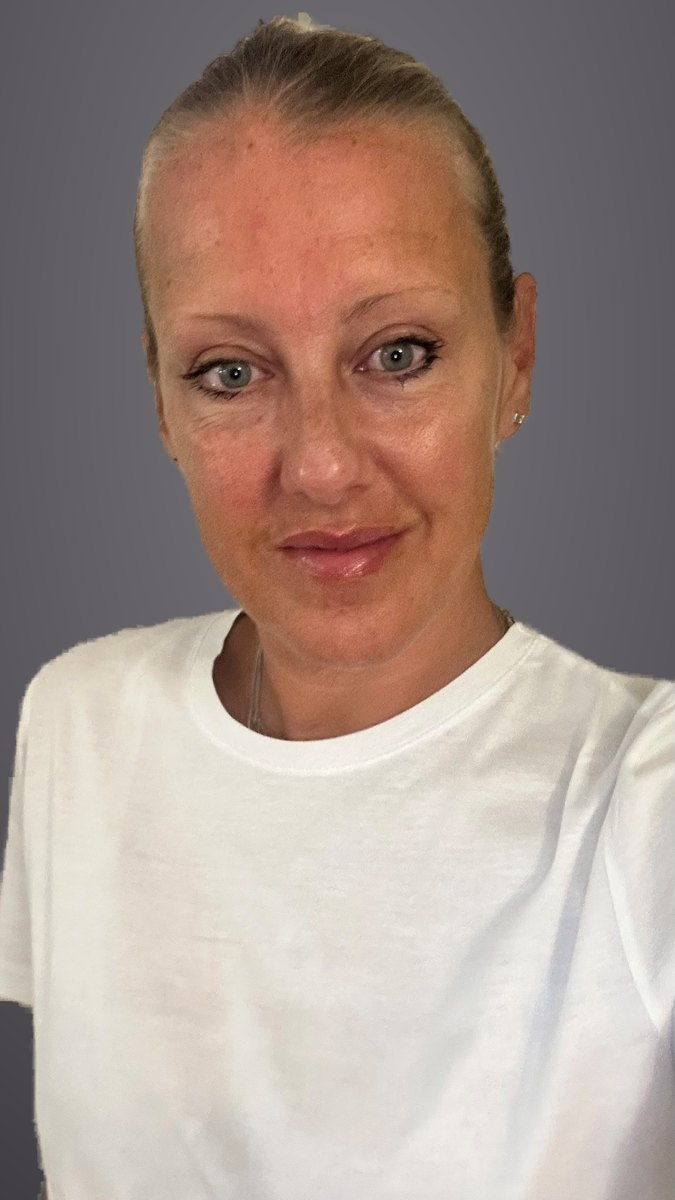
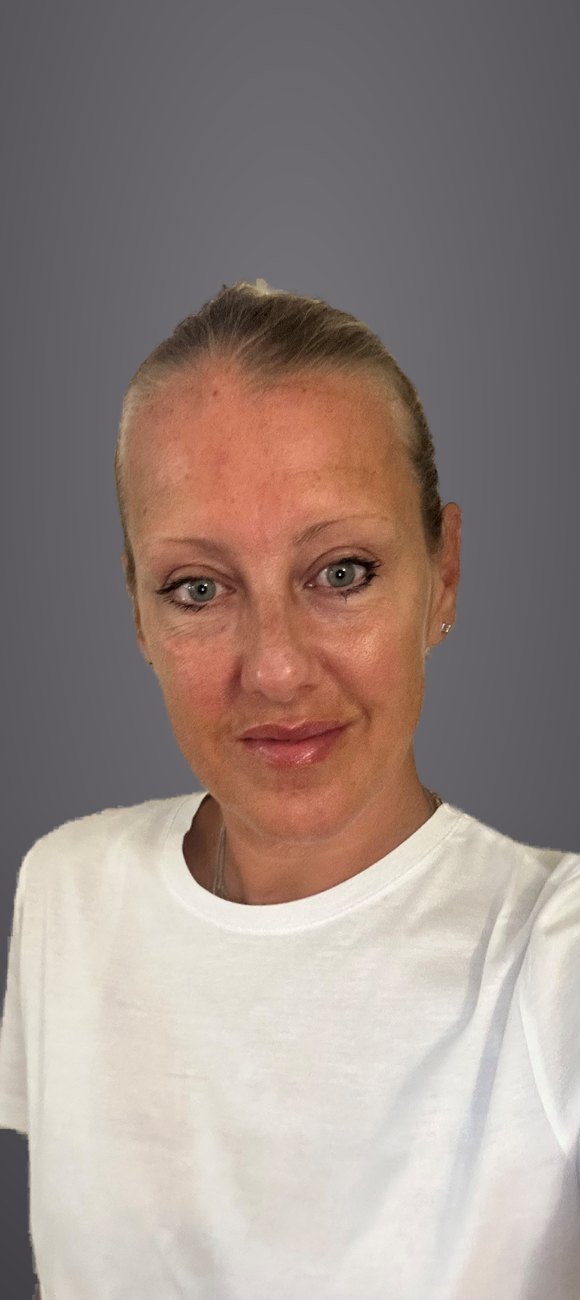
Swap in real studio headshots, rename Numbers→Projects, Title Case headings
Photos:
- Real professional headshots for Mara, Andrea, Giovanni, Alessio, Roberta
  (client sent studio shots); composited onto the shared gray backdrop and
  removed the AI sparkle watermark on each.
- Cristina: re-composited with added headroom so her whole head is visible,
  crop focus tuned to center 30%.

Copy:
- Rename the "Numbers" nav/footer tab to "Projects" (IT "Progetti") across
  all pages + the generator; reframe the page hero to "The projects we run,
  in numbers" so the tab and page agree.
- Title Case the English section headings: Our Numbers, Meet the Team,
  What Clients Say About Us.

Claude-Session: https://claude.ai/code/session_01JxEtyj2fxvFpVKVP54jJEr

diff --git a/index.html b/index.html
@@ -400,7 +400,7 @@
     <ul class="nav__links">
       <li><a href="/chi-siamo.html" data-it="Chi Siamo" data-en="About">Chi Siamo</a></li>
       <li><a href="/servizi.html" data-it="Servizi" data-en="Services">Servizi</a></li>
-      <li><a href="/numeri.html" data-it="I Numeri" data-en="Numbers">I Numeri</a></li>
+      <li><a href="/numeri.html" data-it="Progetti" data-en="Projects">Progetti</a></li>
       <li><a href="#team" data-it="Team" data-en="Team">Team</a></li>
       <li><a href="/casi-testimonianze.html" data-it="Casi &amp; Testimonianze" data-en="Cases">Casi &amp; Testimonianze</a></li>
       <li><a href="/lavora-con-noi.html" data-it="Lavora con noi" data-en="Careers">Lavora con noi</a></li>
@@ -524,7 +524,7 @@
 <section class="section">
   <div class="container">
     <div class="section__head reveal">
-      <h2 data-it-html="I nostri <em class=&quot;hl&quot;>numeri</em>" data-en-html="Our <em class=&quot;hl&quot;>numbers</em>">I nostri <em class="hl">numeri</em></h2>
+      <h2 data-it-html="I nostri <em class=&quot;hl&quot;>numeri</em>" data-en-html="Our <em class=&quot;hl&quot;>Numbers</em>">I nostri <em class="hl">numeri</em></h2>
       <p data-it="Formazione finanziata dai fondi interprofessionali, erogata alle imprese nel biennio 2024&ndash;2025." data-en="Training funded by interprofessional funds, delivered to companies over 2024&ndash;2025.">Formazione finanziata dai fondi interprofessionali, erogata alle imprese nel biennio 2024–2025.</p>
     </div>
     <div class="stats reveal">
@@ -609,11 +609,11 @@
 <section class="section" id="team">
   <div class="container">
     <div class="section__head reveal">
-      <h2 data-it-html="Conosci il <em class=&quot;hl&quot;>team</em>" data-en-html="Meet the <em class=&quot;hl&quot;>team</em>">Conosci il <em class="hl">team</em></h2>
+      <h2 data-it-html="Conosci il <em class=&quot;hl&quot;>team</em>" data-en-html="Meet the <em class=&quot;hl&quot;>Team</em>">Conosci il <em class="hl">team</em></h2>
     </div>
     <div class="team-grid reveal">
       <a href="/team/cesare-trebeschi.html" class="team-card team-card--lead"><div class="team-card__photo"><img src="/img/cesare-trebeschi.jpg" alt="Cesare Trebeschi"></div><div class="team-card__name">Cesare Trebeschi</div><div class="team-card__role" data-it="CEO &amp; Fondatore" data-en="CEO &amp; Founder">CEO &amp; Fondatore</div></a>
-      <a href="/team/cristina.html" class="team-card"><div class="team-card__photo"><img src="/img/team/cristina.jpg" alt="Cristina Milanesi" style="object-position:center 20%"></div><div class="team-card__name">Cristina Milanesi</div><div class="team-card__role" data-it="Front &amp; Back Office" data-en="Front &amp; Back Office">Front &amp; Back Office</div></a>
+      <a href="/team/cristina.html" class="team-card"><div class="team-card__photo"><img src="/img/team/cristina.jpg" alt="Cristina Milanesi" style="object-position:center 30%"></div><div class="team-card__name">Cristina Milanesi</div><div class="team-card__role" data-it="Front &amp; Back Office" data-en="Front &amp; Back Office">Front &amp; Back Office</div></a>
       <a href="/team/alessio.html" class="team-card"><div class="team-card__photo"><img src="/img/team/alessio.jpg" alt="Alessio Di Cesare" style="object-position:center 32%"></div><div class="team-card__name">Alessio Di Cesare</div><div class="team-card__role" data-it="Responsabile Amministrativo" data-en="Head of Administration">Responsabile Amministrativo</div></a>
       <a href="/team/gianmaria.html" class="team-card"><div class="team-card__photo">G</div><div class="team-card__name">Gianmaria Bassani</div><div class="team-card__role" data-it="Amministrazione" data-en="Administration">Amministrazione</div></a>
       <a href="/team/mara.html" class="team-card"><div class="team-card__photo"><img src="/img/team/mara.jpg" alt="Mara Carioni" style="object-position:center 22%"></div><div class="team-card__name">Mara Carioni</div><div class="team-card__role" data-it="Responsabile Formazione" data-en="Head of Training">Responsabile Formazione</div></a>
@@ -632,7 +632,7 @@
   <div class="container">
     <hr style="border:0;border-top:1px solid rgba(127,168,220,.22);max-width:1100px;margin:0 auto 80px">
     <div class="section__head reveal">
-      <h2 data-it-html="Cosa dicono i <em class=&quot;hl&quot;>clienti di noi</em>" data-en-html="What <em class=&quot;hl&quot;>clients say about us</em>">Cosa dicono i <em class="hl">clienti di noi</em></h2>
+      <h2 data-it-html="Cosa dicono i <em class=&quot;hl&quot;>clienti di noi</em>" data-en-html="What <em class=&quot;hl&quot;>Clients Say About Us</em>">Cosa dicono i <em class="hl">clienti di noi</em></h2>
     </div>
     <div class="quote-grid reveal">
       <article class="qcard">
@@ -680,7 +680,7 @@
       <ul>
         <li><a href="/chi-siamo.html" data-it="Chi Siamo" data-en="About">Chi Siamo</a></li>
         <li><a href="/servizi.html" data-it="Servizi" data-en="Services">Servizi</a></li>
-        <li><a href="/numeri.html" data-it="I Numeri" data-en="Numbers">I Numeri</a></li>
+        <li><a href="/numeri.html" data-it="Progetti" data-en="Projects">Progetti</a></li>
         <li><a href="/casi-testimonianze.html" data-it="Casi &amp; Testimonianze" data-en="Cases">Casi</a></li>
         <li><a href="/lavora-con-noi.html" data-it="Lavora con noi" data-en="Careers">Lavora con noi</a></li>
       </ul>

diff --git a/numeri.html b/numeri.html
@@ -3,8 +3,8 @@
 <head>
 <meta charset="UTF-8">
 <meta name="viewport" content="width=device-width, initial-scale=1.0">
-<title>I Numeri | Polaris Group</title>
-<meta name="description" content="I numeri della formazione Polaris HR: partecipanti formati, aziende coinvolte, ore e corsi erogati nel biennio 2024–2025, con i fondi interprofessionali.">
+<title>Progetti | Polaris Group</title>
+<meta name="description" content="I progetti formativi seguiti da Polaris HR: partecipanti formati, aziende coinvolte, ore e corsi erogati nel biennio 2024–2025, con i fondi interprofessionali.">
 <link rel="icon" type="image/png" sizes="32x32" href="/favicon-32.png">
 <link rel="icon" type="image/png" sizes="192x192" href="/favicon-192.png">
 <link rel="apple-touch-icon" href="/favicon-180.png">
@@ -78,7 +78,7 @@
     <ul class="nav__links">
       <li><a href="/chi-siamo.html" data-it="Chi Siamo" data-en="About">Chi Siamo</a></li>
       <li><a href="/servizi.html" data-it="Servizi" data-en="Services">Servizi</a></li>
-      <li><a href="/numeri.html" class="is-active" data-it="I Numeri" data-en="Numbers">I Numeri</a></li>
+      <li><a href="/numeri.html" class="is-active" data-it="Progetti" data-en="Projects">Progetti</a></li>
       <li><a href="/casi-testimonianze.html" data-it="Casi &amp; Testimonianze" data-en="Cases">Casi &amp; Testimonianze</a></li>
       <li><a href="/lavora-con-noi.html" data-it="Lavora con noi" data-en="Careers">Lavora con noi</a></li>
       <li><a href="/contatti.html" class="nav__cta" data-it="Contattaci" data-en="Get in Touch">Contattaci</a></li>
@@ -93,7 +93,7 @@
   <section class="num-hero">
     <div class="num-hero__inner">
       <span class="eyebrow eyebrow--center" data-it="Formazione" data-en="Training">Formazione</span>
-      <h1 data-it-html="La formazione che eroghiamo, in <span class='hl'>cifre</span>." data-en-html="The training we deliver, in <span class='hl'>numbers</span>.">La formazione che eroghiamo, in <span class="hl">cifre</span>.</h1>
+      <h1 data-it-html="I progetti che seguiamo, in <span class='hl'>cifre</span>." data-en-html="The projects we run, in <span class='hl'>numbers</span>.">I progetti che seguiamo, in <span class="hl">cifre</span>.</h1>
       <p class="num-hero__lead" data-it="Ogni anno progettiamo, gestiamo e rendicontiamo piani formativi finanziati per le imprese. Questi sono i risultati del biennio 2024–2025." data-en="Every year we design, manage and report funded training plans for companies. These are the results of 2024–2025.">Ogni anno progettiamo, gestiamo e rendicontiamo piani formativi finanziati per le imprese. Questi sono i risultati del biennio 2024–2025.</p>
     </div>
   </section>
@@ -183,7 +183,7 @@
       <ul>
         <li><a href="/chi-siamo.html" data-it="Chi Siamo" data-en="About">Chi Siamo</a></li>
         <li><a href="/servizi.html" data-it="Servizi" data-en="Services">Servizi</a></li>
-        <li><a href="/numeri.html" data-it="I Numeri" data-en="Numbers">I Numeri</a></li>
+        <li><a href="/numeri.html" data-it="Progetti" data-en="Projects">Progetti</a></li>
         <li><a href="/casi-testimonianze.html" data-it="Casi &amp; Testimonianze" data-en="Cases">Casi</a></li>
         <li><a href="/lavora-con-noi.html" data-it="Lavora con noi" data-en="Careers">Lavora con noi</a></li>
       </ul>

diff --git a/chi-siamo.html b/chi-siamo.html
@@ -87,7 +87,7 @@
     <ul class="nav__links">
       <li><a href="/chi-siamo.html" class="is-active" data-it="Chi Siamo" data-en="About">Chi Siamo</a></li>
       <li><a href="/servizi.html" data-it="Servizi" data-en="Services">Servizi</a></li>
-      <li><a href="/numeri.html" data-it="I Numeri" data-en="Numbers">I Numeri</a></li>
+      <li><a href="/numeri.html" data-it="Progetti" data-en="Projects">Progetti</a></li>
       <li><a href="/chi-siamo.html#team" data-it="Team" data-en="Team">Team</a></li>
       <li><a href="/casi-testimonianze.html" data-it="Casi &amp; Testimonianze" data-en="Cases">Casi &amp; Testimonianze</a></li>
       <li><a href="/lavora-con-noi.html" data-it="Lavora con noi" data-en="Careers">Lavora con noi</a></li>
@@ -200,7 +200,7 @@
             <span class="team-group__eyebrow" data-it="Area Segreteria" data-en="Administration">Area Segreteria</span>
           </div>
           <div class="team-grid">
-            <a href="/team/cristina.html" class="team-card"><div class="team-card__photo"><img src="/img/team/cristina.jpg" alt="Cristina Milanesi" style="object-position:center 20%"></div><div class="team-card__name">Cristina Milanesi</div><div class="team-card__role" data-it="Front & Back Office" data-en="Front & Back Office">Front &amp; Back Office</div></a>
+            <a href="/team/cristina.html" class="team-card"><div class="team-card__photo"><img src="/img/team/cristina.jpg" alt="Cristina Milanesi" style="object-position:center 30%"></div><div class="team-card__name">Cristina Milanesi</div><div class="team-card__role" data-it="Front & Back Office" data-en="Front & Back Office">Front &amp; Back Office</div></a>
           </div>
         </div>
       </div>
@@ -235,7 +235,7 @@
       <ul>
         <li><a href="/chi-siamo.html" data-it="Chi Siamo" data-en="About">Chi Siamo</a></li>
         <li><a href="/servizi.html" data-it="Servizi" data-en="Services">Servizi</a></li>
-        <li><a href="/numeri.html" data-it="I Numeri" data-en="Numbers">I Numeri</a></li>
+        <li><a href="/numeri.html" data-it="Progetti" data-en="Projects">Progetti</a></li>
         <li><a href="/casi-testimonianze.html" data-it="Casi &amp; Testimonianze" data-en="Cases">Casi</a></li>
         <li><a href="/lavora-con-noi.html" data-it="Lavora con noi" data-en="Careers">Lavora con noi</a></li>
       </ul>

diff --git a/team/cristina.html b/team/cristina.html
@@ -123,7 +123,7 @@
     <ul class="nav__links">
       <li><a href="/chi-siamo.html" class="is-active" data-it="Chi Siamo" data-en="About">Chi Siamo</a></li>
       <li><a href="/servizi.html" data-it="Servizi" data-en="Services">Servizi</a></li>
-      <li><a href="/numeri.html" data-it="I Numeri" data-en="Numbers">I Numeri</a></li>
+      <li><a href="/numeri.html" data-it="Progetti" data-en="Projects">Progetti</a></li>
       <li><a href="/chi-siamo.html#team" data-it="Team" data-en="Team">Team</a></li>
       <li><a href="/casi-testimonianze.html" data-it="Casi &amp; Testimonianze" data-en="Cases">Casi &amp; Testimonianze</a></li>
       <li><a href="/lavora-con-noi.html" data-it="Lavora con noi" data-en="Careers">Lavora con noi</a></li>
@@ -140,7 +140,7 @@
     <div class="bio-hero__inner">
       <a href="/chi-siamo.html#team" class="bio-back" data-it-html="&larr; Torna al team" data-en-html="&larr; Back to the team">← Torna al team</a>
       <div class="bio-photo">
-        <div class="bio-photo__frame"><img src="/img/team/cristina.jpg" alt="Cristina Milanesi" style="object-position:center 20%"></div>
+        <div class="bio-photo__frame"><img src="/img/team/cristina.jpg" alt="Cristina Milanesi" style="object-position:center 30%"></div>
         <div class="bio-photo__accent" aria-hidden="true"></div>
         <div class="bio-photo__accent-2" aria-hidden="true"></div>
       </div>
@@ -286,7 +286,7 @@
       <ul>
         <li><a href="/chi-siamo.html" data-it="Chi Siamo" data-en="About">Chi Siamo</a></li>
         <li><a href="/servizi.html" data-it="Servizi" data-en="Services">Servizi</a></li>
-        <li><a href="/numeri.html" data-it="I Numeri" data-en="Numbers">I Numeri</a></li>
+        <li><a href="/numeri.html" data-it="Progetti" data-en="Projects">Progetti</a></li>
         <li><a href="/casi-testimonianze.html" data-it="Casi &amp; Testimonianze" data-en="Cases">Casi</a></li>
         <li><a href="/lavora-con-noi.html" data-it="Lavora con noi" data-en="Careers">Lavora con noi</a></li>
       </ul>

diff --git a/team/alessio.html b/team/alessio.html
@@ -123,7 +123,7 @@
     <ul class="nav__links">
       <li><a href="/chi-siamo.html" class="is-active" data-it="Chi Siamo" data-en="About">Chi Siamo</a></li>
       <li><a href="/servizi.html" data-it="Servizi" data-en="Services">Servizi</a></li>
-      <li><a href="/numeri.html" data-it="I Numeri" data-en="Numbers">I Numeri</a></li>
+      <li><a href="/numeri.html" data-it="Progetti" data-en="Projects">Progetti</a></li>
       <li><a href="/chi-siamo.html#team" data-it="Team" data-en="Team">Team</a></li>
       <li><a href="/casi-testimonianze.html" data-it="Casi &amp; Testimonianze" data-en="Cases">Casi &amp; Testimonianze</a></li>
       <li><a href="/lavora-con-noi.html" data-it="Lavora con noi" data-en="Careers">Lavora con noi</a></li>
@@ -286,7 +286,7 @@
       <ul>
         <li><a href="/chi-siamo.html" data-it="Chi Siamo" data-en="About">Chi Siamo</a></li>
         <li><a href="/servizi.html" data-it="Servizi" data-en="Services">Servizi</a></li>
-        <li><a href="/numeri.html" data-it="I Numeri" data-en="Numbers">I Numeri</a></li>
+        <li><a href="/numeri.html" data-it="Progetti" data-en="Projects">Progetti</a></li>
         <li><a href="/casi-testimonianze.html" data-it="Casi &amp; Testimonianze" data-en="Cases">Casi</a></li>
         <li><a href="/lavora-con-noi.html" data-it="Lavora con noi" data-en="Careers">Lavora con noi</a></li>
       </ul>

diff --git a/team/andrea.html b/team/andrea.html
@@ -123,7 +123,7 @@
     <ul class="nav__links">
       <li><a href="/chi-siamo.html" class="is-active" data-it="Chi Siamo" data-en="About">Chi Siamo</a></li>
       <li><a href="/servizi.html" data-it="Servizi" data-en="Services">Servizi</a></li>
-      <li><a href="/numeri.html" data-it="I Numeri" data-en="Numbers">I Numeri</a></li>
+      <li><a href="/numeri.html" data-it="Progetti" data-en="Projects">Progetti</a></li>
       <li><a href="/chi-siamo.html#team" data-it="Team" data-en="Team">Team</a></li>
       <li><a href="/casi-testimonianze.html" data-it="Casi &amp; Testimonianze" data-en="Cases">Casi &amp; Testimonianze</a></li>
       <li><a href="/lavora-con-noi.html" data-it="Lavora con noi" data-en="Careers">Lavora con noi</a></li>
@@ -286,7 +286,7 @@
       <ul>
         <li><a href="/chi-siamo.html" data-it="Chi Siamo" data-en="About">Chi Siamo</a></li>
         <li><a href="/servizi.html" data-it="Servizi" data-en="Services">Servizi</a></li>
-        <li><a href="/numeri.html" data-it="I Numeri" data-en="Numbers">I Numeri</a></li>
+        <li><a href="/numeri.html" data-it="Progetti" data-en="Projects">Progetti</a></li>
         <li><a href="/casi-testimonianze.html" data-it="Casi &amp; Testimonianze" data-en="Cases">Casi</a></li>
         <li><a href="/lavora-con-noi.html" data-it="Lavora con noi" data-en="Careers">Lavora con noi</a></li>
       </ul>

diff --git a/team/carole.html b/team/carole.html
@@ -123,7 +123,7 @@
     <ul class="nav__links">
       <li><a href="/chi-siamo.html" class="is-active" data-it="Chi Siamo" data-en="About">Chi Siamo</a></li>
       <li><a href="/servizi.html" data-it="Servizi" data-en="Services">Servizi</a></li>
-      <li><a href="/numeri.html" data-it="I Numeri" data-en="Numbers">I Numeri</a></li>
+      <li><a href="/numeri.html" data-it="Progetti" data-en="Projects">Progetti</a></li>
       <li><a href="/chi-siamo.html#team" data-it="Team" data-en="Team">Team</a></li>
       <li><a href="/casi-testimonianze.html" data-it="Casi &amp; Testimonianze" data-en="Cases">Casi &amp; Testimonianze</a></li>
       <li><a href="/lavora-con-noi.html" data-it="Lavora con noi" data-en="Careers">Lavora con noi</a></li>
@@ -286,7 +286,7 @@
       <ul>
         <li><a href="/chi-siamo.html" data-it="Chi Siamo" data-en="About">Chi Siamo</a></li>
         <li><a href="/servizi.html" data-it="Servizi" data-en="Services">Servizi</a></li>
-        <li><a href="/numeri.html" data-it="I Numeri" data-en="Numbers">I Numeri</a></li>
+        <li><a href="/numeri.html" data-it="Progetti" data-en="Projects">Progetti</a></li>
         <li><a href="/casi-testimonianze.html" data-it="Casi &amp; Testimonianze" data-en="Cases">Casi</a></li>
         <li><a href="/lavora-con-noi.html" data-it="Lavora con noi" data-en="Careers">Lavora con noi</a></li>
       </ul>

diff --git a/team/francesca.html b/team/francesca.html
@@ -123,7 +123,7 @@
     <ul class="nav__links">
       <li><a href="/chi-siamo.html" class="is-active" data-it="Chi Siamo" data-en="About">Chi Siamo</a></li>
       <li><a href="/servizi.html" data-it="Servizi" data-en="Services">Servizi</a></li>
-      <li><a href="/numeri.html" data-it="I Numeri" data-en="Numbers">I Numeri</a></li>
+      <li><a href="/numeri.html" data-it="Progetti" data-en="Projects">Progetti</a></li>
       <li><a href="/chi-siamo.html#team" data-it="Team" data-en="Team">Team</a></li>
       <li><a href="/casi-testimonianze.html" data-it="Casi &amp; Testimonianze" data-en="Cases">Casi &amp; Testimonianze</a></li>
       <li><a href="/lavora-con-noi.html" data-it="Lavora con noi" data-en="Careers">Lavora con noi</a></li>
@@ -286,7 +286,7 @@
       <ul>
         <li><a href="/chi-siamo.html" data-it="Chi Siamo" data-en="About">Chi Siamo</a></li>
         <li><a href="/servizi.html" data-it="Servizi" data-en="Services">Servizi</a></li>
-        <li><a href="/numeri.html" data-it="I Numeri" data-en="Numbers">I Numeri</a></li>
+        <li><a href="/numeri.html" data-it="Progetti" data-en="Projects">Progetti</a></li>
         <li><a href="/casi-testimonianze.html" data-it="Casi &amp; Testimonianze" data-en="Cases">Casi</a></li>
         <li><a href="/lavora-con-noi.html" data-it="Lavora con noi" data-en="Careers">Lavora con noi</a></li>
       </ul>

diff --git a/team/gianmaria.html b/team/gianmaria.html
@@ -123,7 +123,7 @@
     <ul class="nav__links">
       <li><a href="/chi-siamo.html" class="is-active" data-it="Chi Siamo" data-en="About">Chi Siamo</a></li>
       <li><a href="/servizi.html" data-it="Servizi" data-en="Services">Servizi</a></li>
-      <li><a href="/numeri.html" data-it="I Numeri" data-en="Numbers">I Numeri</a></li>
+      <li><a href="/numeri.html" data-it="Progetti" data-en="Projects">Progetti</a></li>
       <li><a href="/chi-siamo.html#team" data-it="Team" data-en="Team">Team</a></li>
       <li><a href="/casi-testimonianze.html" data-it="Casi &amp; Testimonianze" data-en="Cases">Casi &amp; Testimonianze</a></li>
       <li><a href="/lavora-con-noi.html" data-it="Lavora con noi" data-en="Careers">Lavora con noi</a></li>
@@ -286,7 +286,7 @@
       <ul>
         <li><a href="/chi-siamo.html" data-it="Chi Siamo" data-en="About">Chi Siamo</a></li>
         <li><a href="/servizi.html" data-it="Servizi" data-en="Services">Servizi</a></li>
-        <li><a href="/numeri.html" data-it="I Numeri" data-en="Numbers">I Numeri</a></li>
+        <li><a href="/numeri.html" data-it="Progetti" data-en="Projects">Progetti</a></li>
         <li><a href="/casi-testimonianze.html" data-it="Casi &amp; Testimonianze" data-en="Cases">Casi</a></li>
         <li><a href="/lavora-con-noi.html" data-it="Lavora con noi" data-en="Careers">Lavora con noi</a></li>
       </ul>

diff --git a/team/giovanni.html b/team/giovanni.html
@@ -123,7 +123,7 @@
     <ul class="nav__links">
       <li><a href="/chi-siamo.html" class="is-active" data-it="Chi Siamo" data-en="About">Chi Siamo</a></li>
       <li><a href="/servizi.html" data-it="Servizi" data-en="Services">Servizi</a></li>
-      <li><a href="/numeri.html" data-it="I Numeri" data-en="Numbers">I Numeri</a></li>
+      <li><a href="/numeri.html" data-it="Progetti" data-en="Projects">Progetti</a></li>
       <li><a href="/chi-siamo.html#team" data-it="Team" data-en="Team">Team</a></li>
       <li><a href="/casi-testimonianze.html" data-it="Casi &amp; Testimonianze" data-en="Cases">Casi &amp; Testimonianze</a></li>
       <li><a href="/lavora-con-noi.html" data-it="Lavora con noi" data-en="Careers">Lavora con noi</a></li>
@@ -267,7 +267,7 @@
       <ul>
         <li><a href="/chi-siamo.html" data-it="Chi Siamo" data-en="About">Chi Siamo</a></li>
         <li><a href="/servizi.html" data-it="Servizi" data-en="Services">Servizi</a></li>
-        <li><a href="/numeri.html" data-it="I Numeri" data-en="Numbers">I Numeri</a></li>
+        <li><a href="/numeri.html" data-it="Progetti" data-en="Projects">Progetti</a></li>
         <li><a href="/casi-testimonianze.html" data-it="Casi &amp; Testimonianze" data-en="Cases">Casi</a></li>
         <li><a href="/lavora-con-noi.html" data-it="Lavora con noi" data-en="Careers">Lavora con noi</a></li>
       </ul>

diff --git a/team/lavinia.html b/team/lavinia.html
@@ -123,7 +123,7 @@
     <ul class="nav__links">
       <li><a href="/chi-siamo.html" class="is-active" data-it="Chi Siamo" data-en="About">Chi Siamo</a></li>
       <li><a href="/servizi.html" data-it="Servizi" data-en="Services">Servizi</a></li>
-      <li><a href="/numeri.html" data-it="I Numeri" data-en="Numbers">I Numeri</a></li>
+      <li><a href="/numeri.html" data-it="Progetti" data-en="Projects">Progetti</a></li>
       <li><a href="/chi-siamo.html#team" data-it="Team" data-en="Team">Team</a></li>
       <li><a href="/casi-testimonianze.html" data-it="Casi &amp; Testimonianze" data-en="Cases">Casi &amp; Testimonianze</a></li>
       <li><a href="/lavora-con-noi.html" data-it="Lavora con noi" data-en="Careers">Lavora con noi</a></li>
@@ -267,7 +267,7 @@
       <ul>
         <li><a href="/chi-siamo.html" data-it="Chi Siamo" data-en="About">Chi Siamo</a></li>
         <li><a href="/servizi.html" data-it="Servizi" data-en="Services">Servizi</a></li>
-        <li><a href="/numeri.html" data-it="I Numeri" data-en="Numbers">I Numeri</a></li>
+        <li><a href="/numeri.html" data-it="Progetti" data-en="Projects">Progetti</a></li>
         <li><a href="/casi-testimonianze.html" data-it="Casi &amp; Testimonianze" data-en="Cases">Casi</a></li>
         <li><a href="/lavora-con-noi.html" data-it="Lavora con noi" data-en="Careers">Lavora con noi</a></li>
       </ul>

diff --git a/team/mara.html b/team/mara.html
@@ -123,7 +123,7 @@
     <ul class="nav__links">
       <li><a href="/chi-siamo.html" class="is-active" data-it="Chi Siamo" data-en="About">Chi Siamo</a></li>
       <li><a href="/servizi.html" data-it="Servizi" data-en="Services">Servizi</a></li>
-      <li><a href="/numeri.html" data-it="I Numeri" data-en="Numbers">I Numeri</a></li>
+      <li><a href="/numeri.html" data-it="Progetti" data-en="Projects">Progetti</a></li>
       <li><a href="/chi-siamo.html#team" data-it="Team" data-en="Team">Team</a></li>
       <li><a href="/casi-testimonianze.html" data-it="Casi &amp; Testimonianze" data-en="Cases">Casi &amp; Testimonianze</a></li>
       <li><a href="/lavora-con-noi.html" data-it="Lavora con noi" data-en="Careers">Lavora con noi</a></li>
@@ -290,7 +290,7 @@
       <ul>
         <li><a href="/chi-siamo.html" data-it="Chi Siamo" data-en="About">Chi Siamo</a></li>
         <li><a href="/servizi.html" data-it="Servizi" data-en="Services">Servizi</a></li>
-        <li><a href="/numeri.html" data-it="I Numeri" data-en="Numbers">I Numeri</a></li>
+        <li><a href="/numeri.html" data-it="Progetti" data-en="Projects">Progetti</a></li>
         <li><a href="/casi-testimonianze.html" data-it="Casi &amp; Testimonianze" data-en="Cases">Casi</a></li>
         <li><a href="/lavora-con-noi.html" data-it="Lavora con noi" data-en="Careers">Lavora con noi</a></li>
       </ul>
